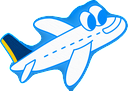
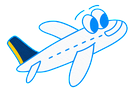
fix: re-derive the mascot so its ground is actually transparent
public/mascot-{128,512}.png carried an opaque blue field hugging the plane, which
reads as a blue background wherever the mark sits on --canvas. The field is the
old master's baked-in neon glow: those files were derived when
src/adaptsg/assets/mascot.png was art on an opaque black plate, and the flood-fill
key documented in docs/roles/role-3-frontend-demo.md preserved the glow as paint.

The master has since been replaced with an already-keyed image -- 65.4% of it is
alpha 0, and composited on white it is a crisp plane with a blue outline and
nothing else -- so no keying is needed at all now. The recipe is crop to the alpha
bbox (1397x961) and resize.

The resize still has to premultiply. The transparent field is RGB black at alpha 0
and Pillow resizes the four channels independently, so a plain LANCZOS pass bleeds
black into every edge; premultiplying, resizing, then dividing alpha back out keeps
the outline clean. Verified against a checkerboard: the ground shows through
everywhere outside the drawing and there is no dark fringe.

Fully transparent pixels go 48.6% -> 59.0% at 512px, and the file drops 166 KB ->
135 KB. The tight crop of the new master is a slightly different aspect than the
glowing one, so the intrinsic sizes become 512x352 and 128x88 and the three
<img class="mark"> tags are updated to match. Rendering is governed by .mark's
`width:auto` plus a fixed height either way; the attributes only reserve layout
before the image loads.
[…]

diff --git a/public/index.html b/public/index.html
@@ -286,7 +286,7 @@ input[type="date"]{width:100%;border:1px solid var(--fog);border-radius:var(--r-
 <div class="app">
   <header class="topbar">
     <div class="topbar-inner">
-      <div class="brand"><img class="mark" src="/mascot-128.png" width="128" height="91" alt=""><span class="word">AdaptSG</span></div>
+      <div class="brand"><img class="mark" src="/mascot-128.png" width="128" height="88" alt=""><span class="word">AdaptSG</span></div>
       <nav class="topnav" aria-label="AdaptSG">
         <a class="pill go" href="#" id="new-trip">New trip</a>
         <span class="pill off" aria-disabled="true">Past trips &mdash; not available yet</span>
@@ -313,7 +313,7 @@ input[type="date"]{width:100%;border:1px solid var(--fog);border-radius:var(--r-
       <div class="work single view" id="view-landing" hidden>
         <main style="max-width:860px;margin:0 auto;width:100%">
           <div class="hero">
-            <img class="mark" src="/mascot-512.png" width="512" height="364" alt="">
+            <img class="mark" src="/mascot-512.png" width="512" height="352" alt="">
             <h1>AdaptSG</h1>
             <p class="lede">travelling for everyone</p>
             <p class="note" style="max-width:560px">Plan a day out in Singapore that respects a wheelchair, a walking limit, a lunchtime and a budget &mdash; and says so plainly when it cannot.</p>
@@ -339,7 +339,7 @@ input[type="date"]{width:100%;border:1px solid var(--fog);border-radius:var(--r-
         <main style="max-width:820px;margin:0 auto;width:100%">
           <div class="pagehead"><p class="eyebrow">Working</p><h1 id="generating-title" tabindex="-1">Planning your day</h1></div>
           <div class="band working" style="align-items:center;text-align:center;gap:14px;padding:36px 24px">
-            <img class="mark" src="/mascot-512.png" width="512" height="364" alt="">
+            <img class="mark" src="/mascot-512.png" width="512" height="352" alt="">
             <h2>Working out a safe plan&hellip;</h2>
             <p style="max-width:520px">AdaptSG is choosing places with checked wheelchair access, then testing every route against your walking limit, lunchtime, finish time and budget.</p>
           </div>
